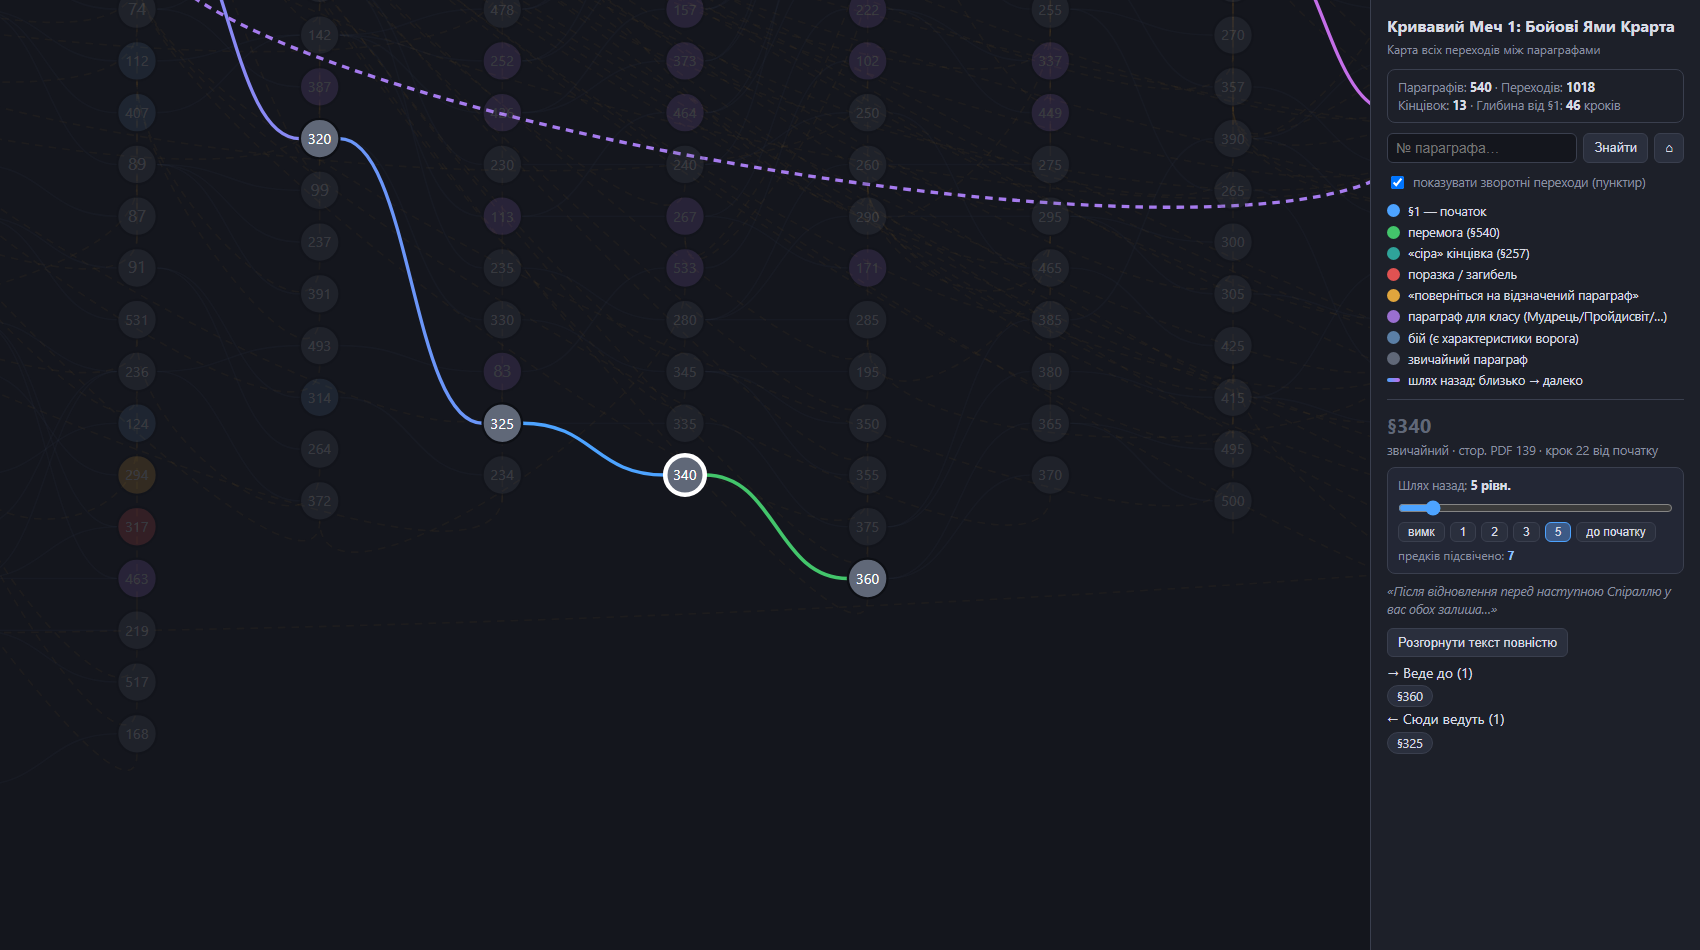
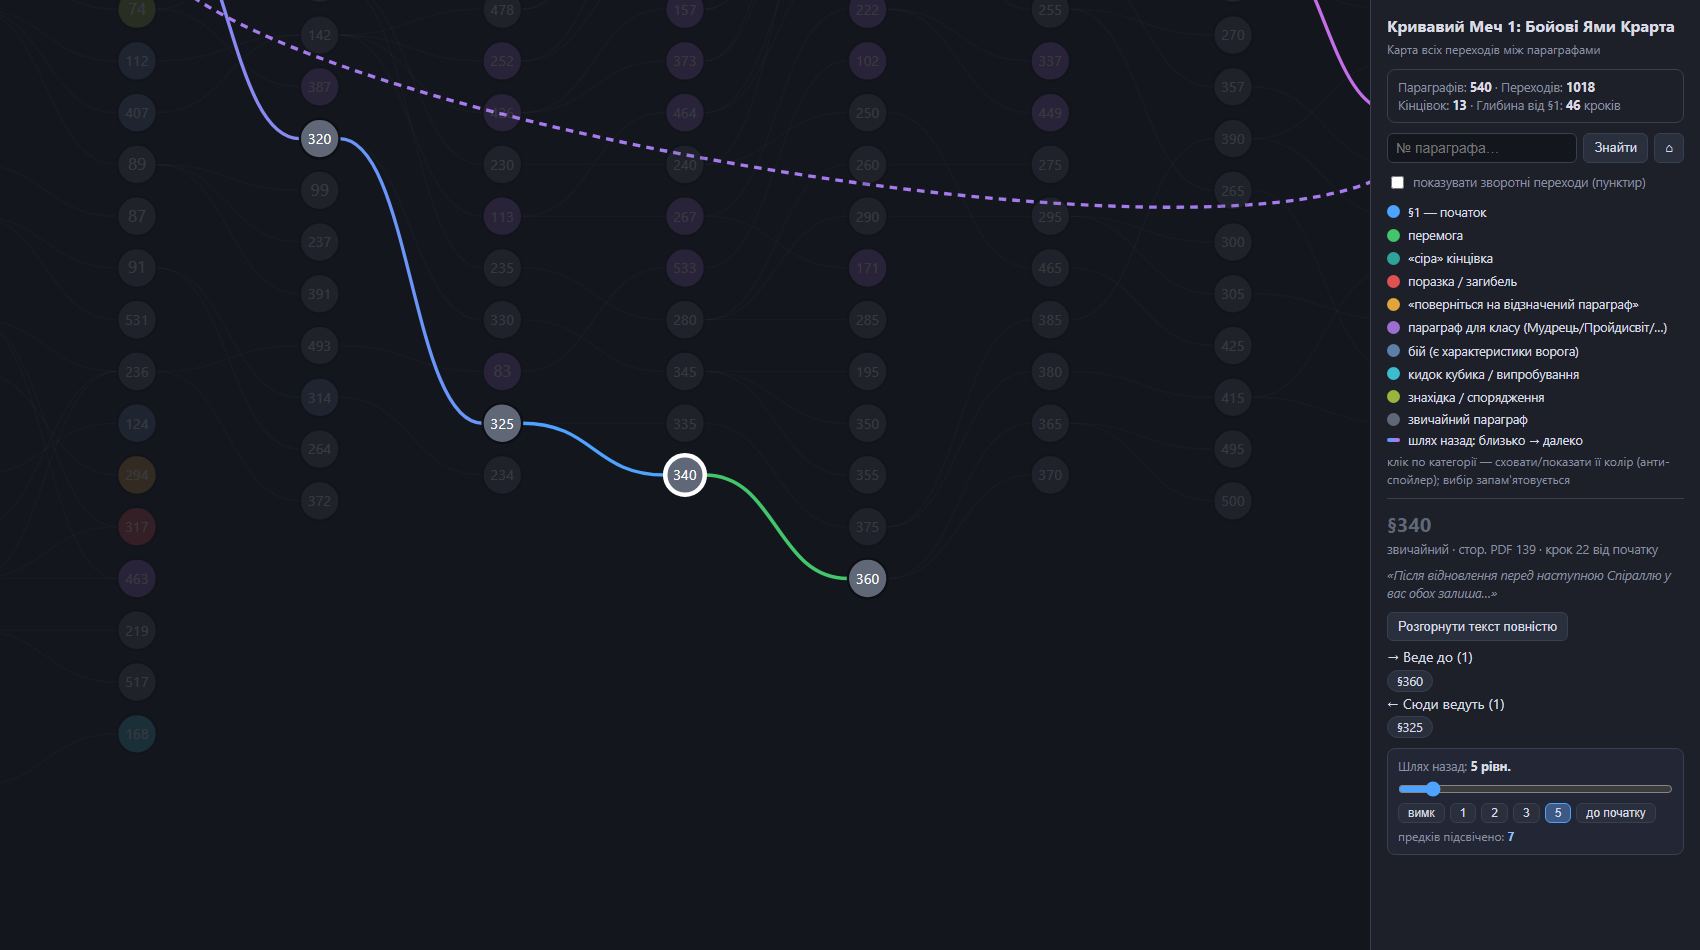
Карта: анти-спойлерні перемикачі категорій, нові типи (кидок/знахідка), пунктир вимкнено за замовчуванням, «Шлях назад» унизу картки

Changed region(s): [[0.8106, 0.2137, 0.9976, 0.8853]]

diff --git a/map.html b/map.html
@@ -224,6 +224,7 @@ function applyHighlight() {
     if (e.from === id) outSet.add(e.to);
     if (e.to === id) inSet.add(e.from);
   });
+  const showBack = document.getElementById("backT").checked;
   edgeEls.forEach(({el, e, back}) => {
     let stroke = back ? "#7a5c28" : "#39415a", w = 1.1, op = N > 0 ? 0.1 : 0.25;
     const dv = revDist[e.to];
@@ -233,6 +234,8 @@ function applyHighlight() {
     el.setAttribute("stroke", stroke);
     el.setAttribute("stroke-width", w);
     el.setAttribute("opacity", op);
+    // підсвічена пунктирна дуга видима навіть коли пунктир глобально схований
+    if (back) el.style.display = (op === 1 || showBack) ? "" : "none";
     if (op === 1) el.parentNode.appendChild(el);
   });
   for (const nid in nodeEls) {
@@ -253,10 +256,12 @@ function select(id) {
 }
 function clearSel() {
   selected = null; revDist = {}; maxRev = 0;
+  const showBack = document.getElementById("backT").checked;
   edgeEls.forEach(({el, back}) => {
     el.setAttribute("stroke", back ? "#7a5c28" : "#39415a");
     el.setAttribute("stroke-width", 1.1);
     el.setAttribute("opacity", 1);
+    if (back) el.style.display = showBack ? "" : "none";
   });
   for (const nid in nodeEls) {
     nodeEls[nid].g.setAttribute("opacity", 1);
@@ -392,6 +397,7 @@ function jump() {
 }
 document.getElementById("q").addEventListener("keydown", ev => { if (ev.key === "Enter") jump(); });
 function toggleBack() {
+  if (selected) { applyHighlight(); return; }
   const show = document.getElementById("backT").checked;
   edgeEls.forEach(({el, back}) => { if (back) el.style.display = show ? "" : "none"; });
 }

diff --git a/README.md b/README.md
@@ -54,14 +54,16 @@
 - **Клік на вузол** — підсвічує всі входи (сині) та виходи (зелені) й показує
   повний текст параграфа; номери в тексті клікабельні, тож книгу можна
   «гортати» просто по карті.
-- **Кольори вузлів**: початок, бої, параграфи для окремих класів (Мудрець,
-  Пройдисвіт, Зачаровувач, Воїн) і всі 13 кінцівок — від повної перемоги
-  (§540) та «сірої» кінцівки (§257) до пасток, загибелей і особливих
-  параграфів «поверніться туди, звідки прийшли».
+- **Кольори вузлів**: початок, бої, кидки кубика, знахідки, параграфи для
+  окремих класів (Мудрець, Пройдисвіт, Зачаровувач, Воїн) і всі 13 кінцівок —
+  від перемог до пасток і загибелей.
+- **Анти-спойлер**: клік по категорії в легенді ховає її колір на карті
+  (кінцівки виглядатимуть як звичайні параграфи); вибір запам'ятовується.
 - **«Шлях назад»** — повзунок у картці параграфа підсвічує всі шляхи, що
   ведуть до нього: на 1, 2, 3… рівні вглиб або аж до самого §1
   (градієнт: синій — близько, фіолетовий — далеко).
-- **Пунктирні дуги** — зворотні переходи (повернення по сюжету назад).
+- **Пунктирні дуги** — зворотні переходи (повернення по сюжету назад);
+  за замовчуванням сховані, вмикаються галочкою.
 - Пошук за номером параграфа, масштаб колесом миші, перетягування карти.
   Пряме посилання на параграф: `map.html#340/5` — відкриє §340 із глибиною
   «шляху назад» 5.
